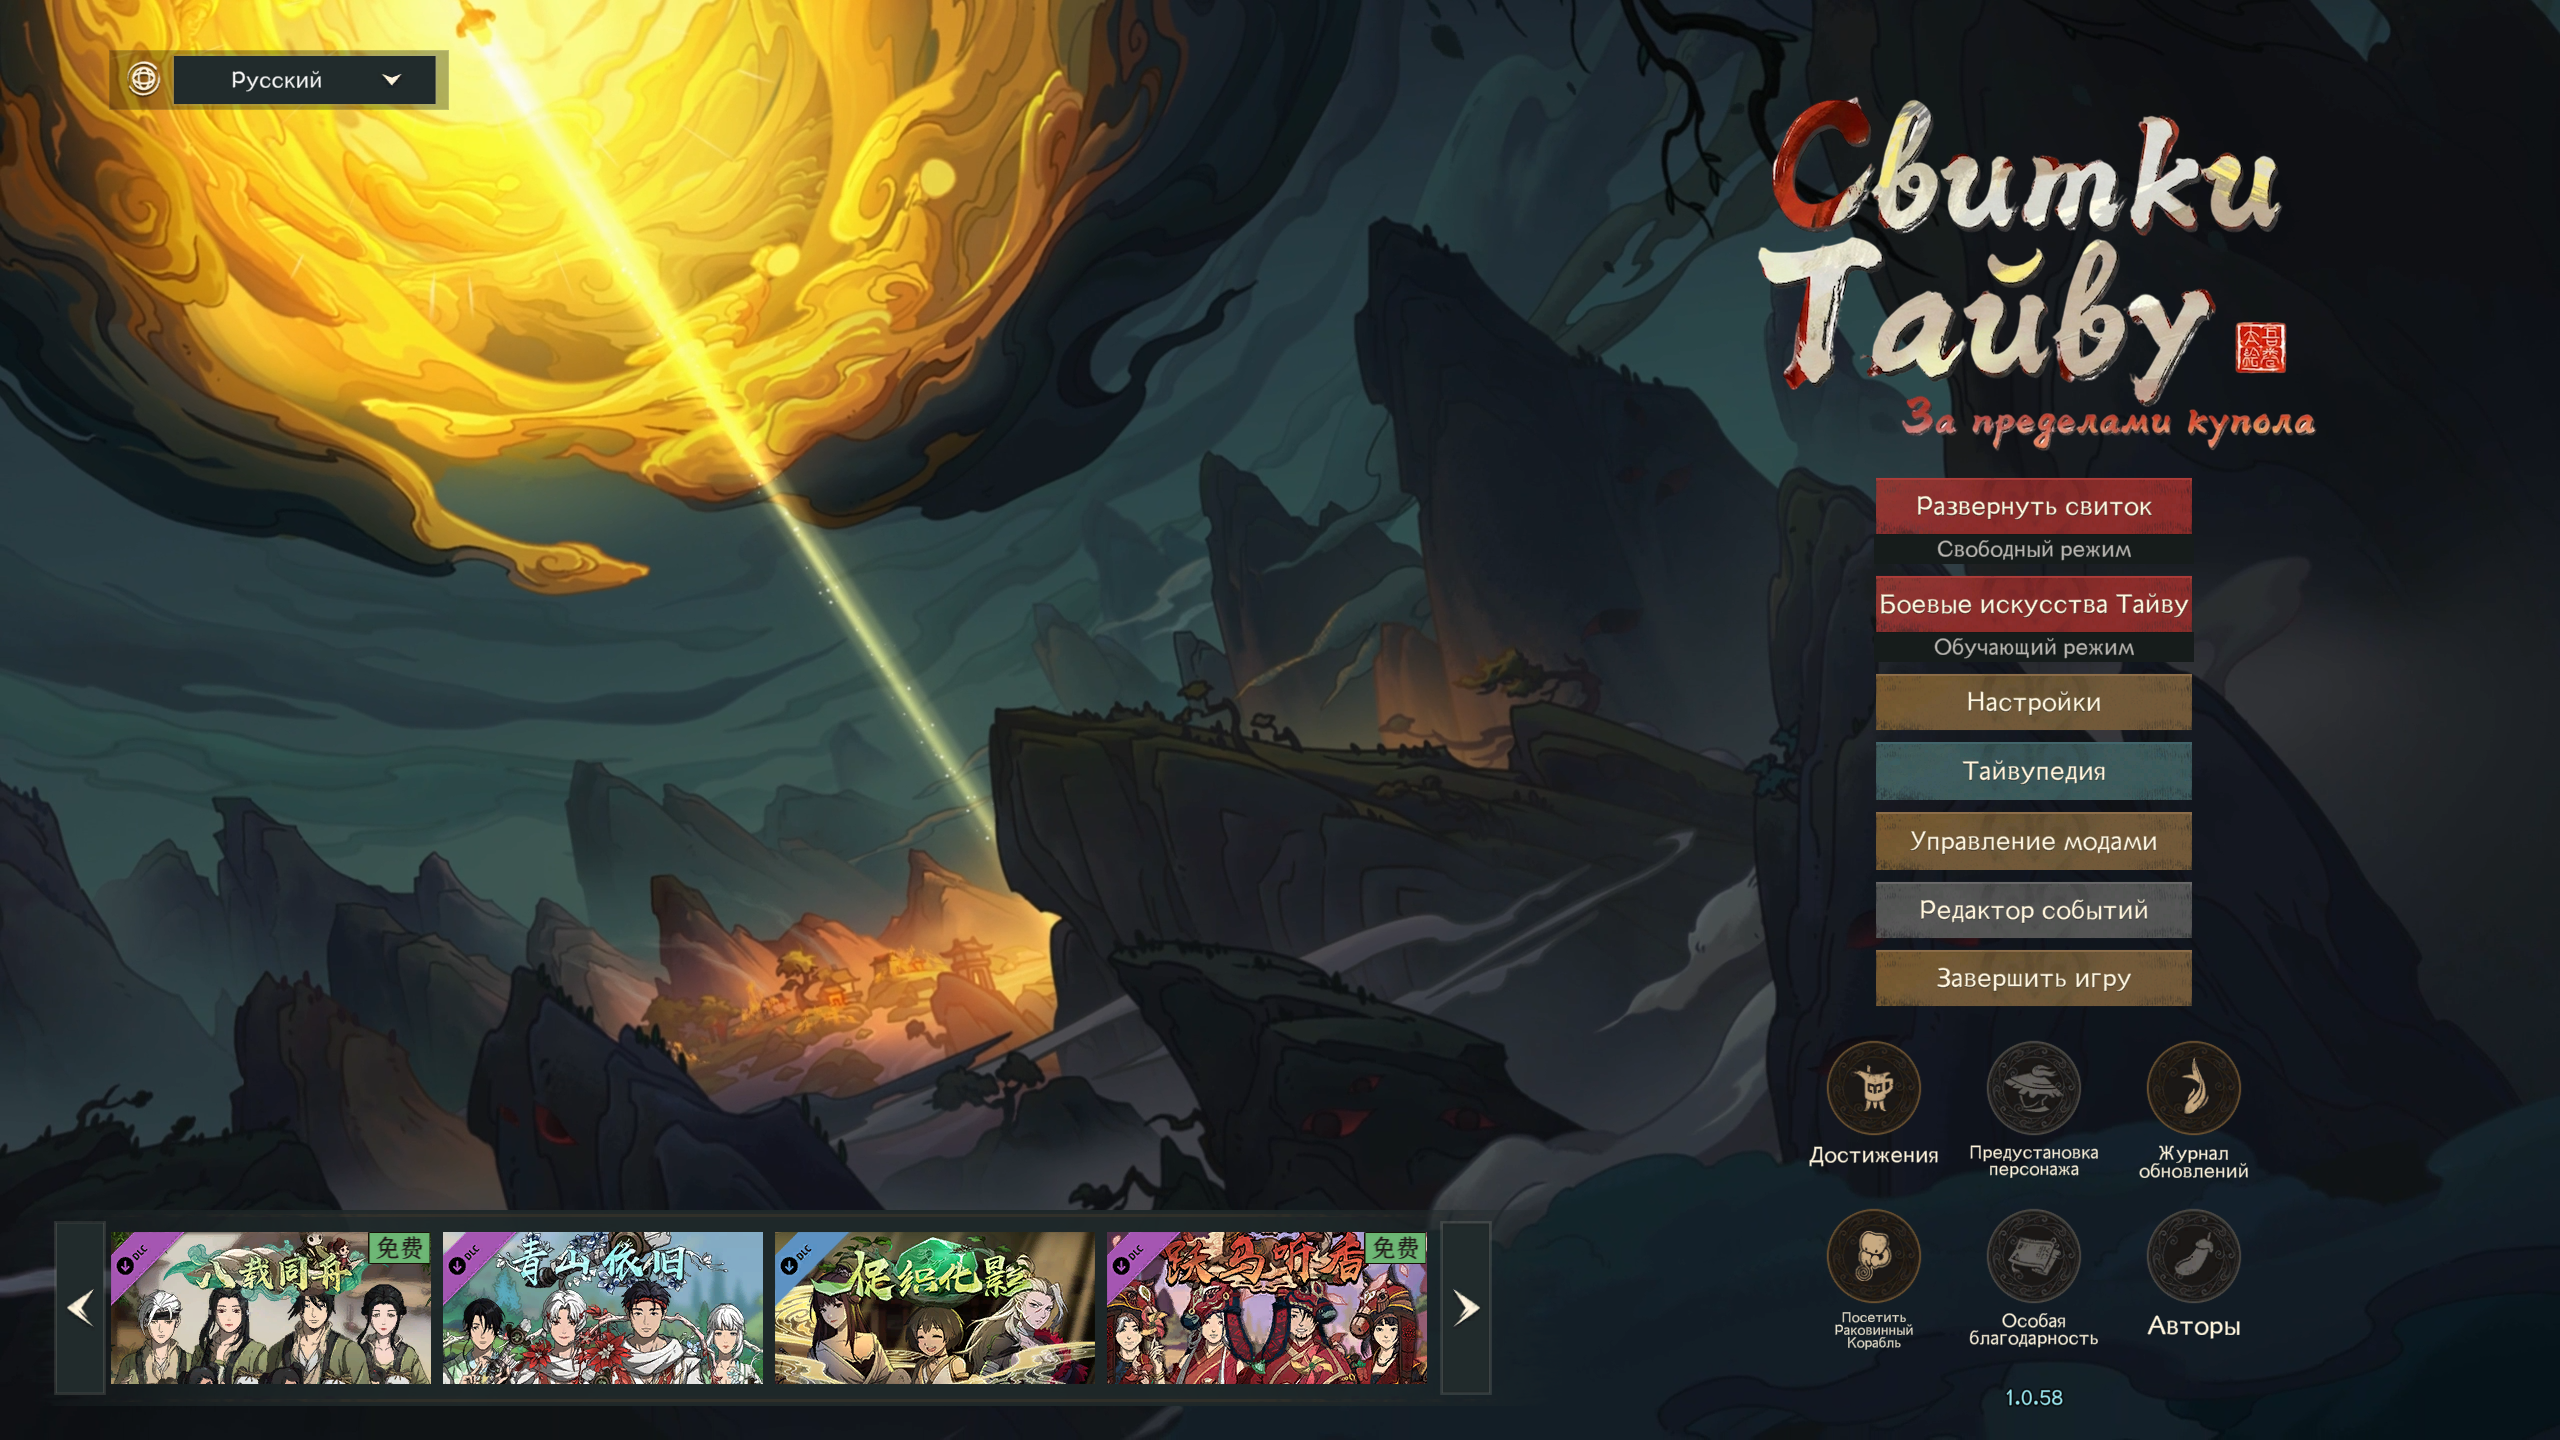
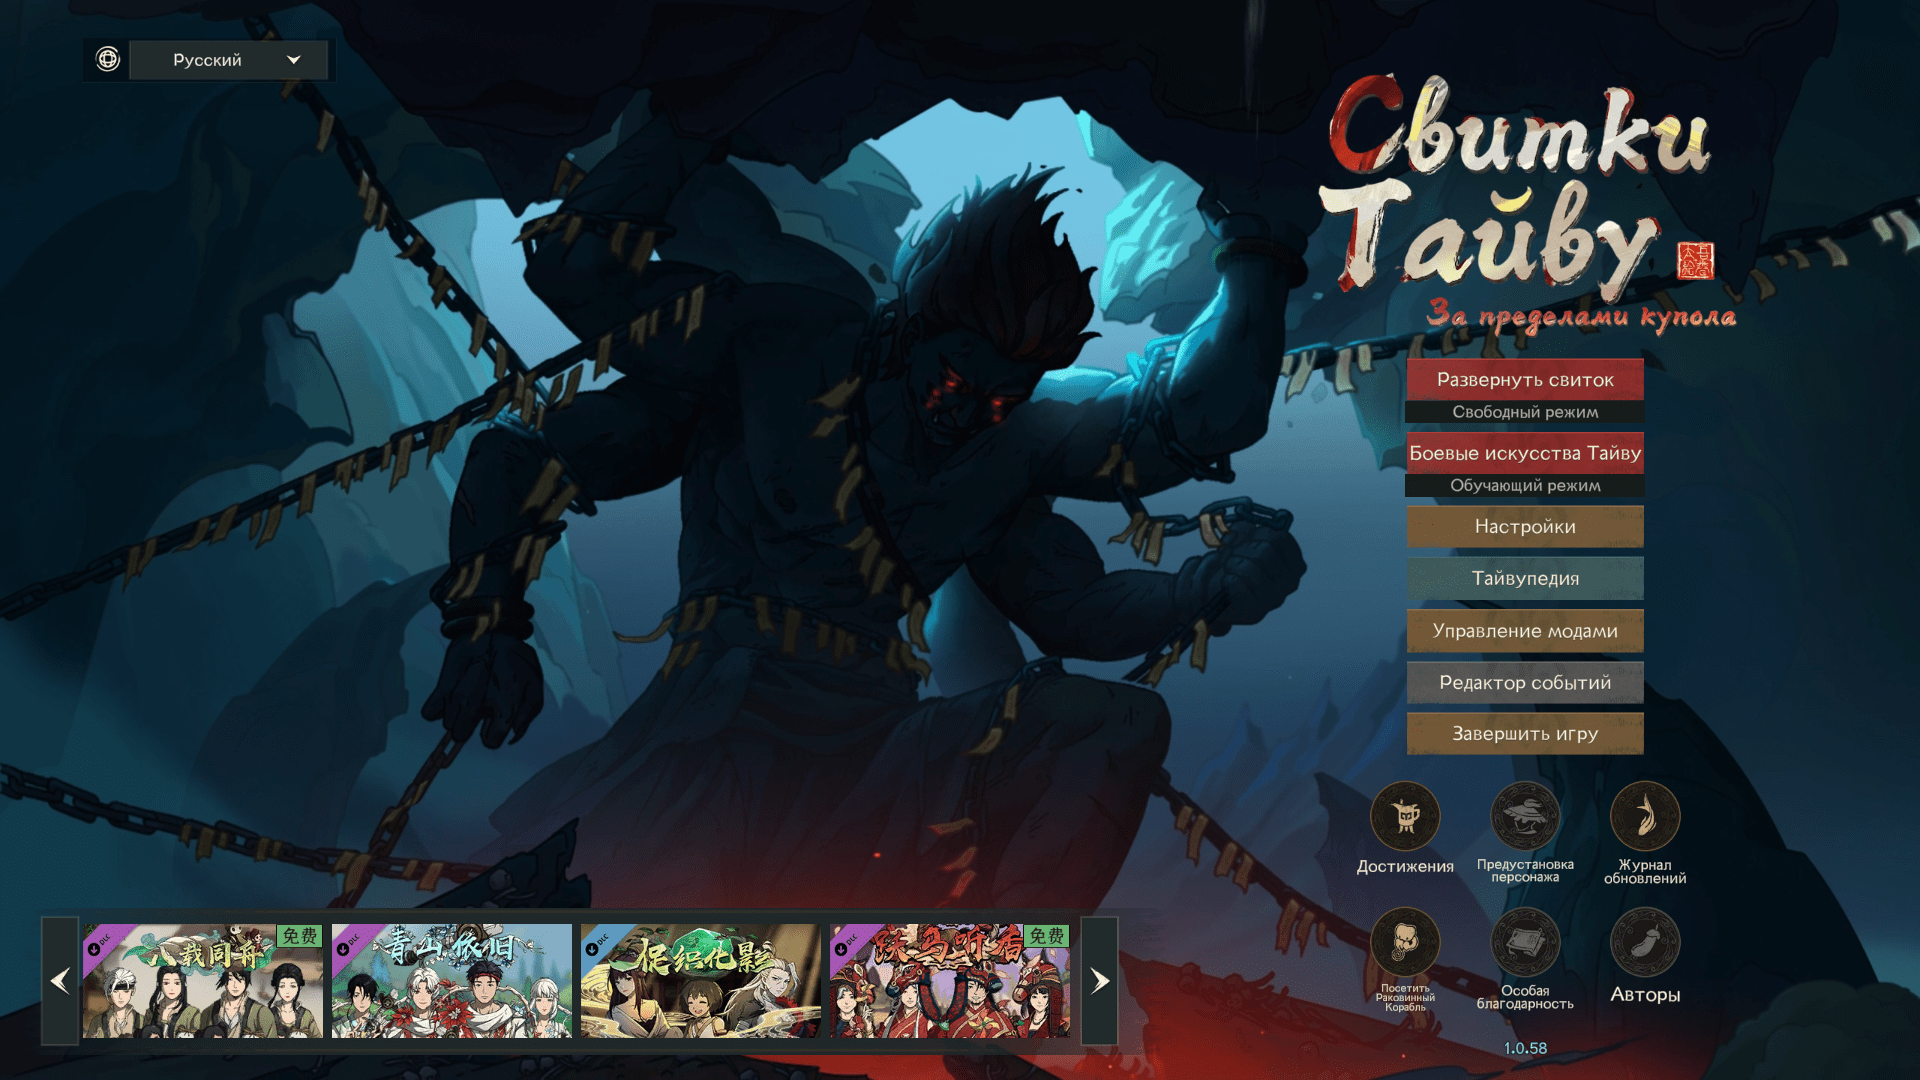
Refresh the mod's Workshop art
Swap the cover to logo.jpg and re-export the screenshots: four shrunk
captures ship, and the full-size ones stay beside them as screen*_orig.png,
excluded from the deploy. Config.Lua's Cover/WorkshopCover and
DetailImageList follow the new names.

Also carried in from the running game: useImages now defaults to true, and
the publish flow's UpdateLogList entry.

diff --git a/src/cli/apply.ts b/src/cli/apply.ts
@@ -21,7 +21,7 @@ import { Progress } from "./progress.js";
 /**
  * A localized sprite carries a `_ru` language token, which may sit at the end of the name
  * (`..._ru.png`) or in front of an atlas index (`..._ru_3.png`, `..._0_ru.png`). Everything else in
- * {@link imageSrcDir} is mod art rather than a sprite — `logo.png` ships in the mod root — and the
+ * {@link imageSrcDir} is mod art rather than a sprite — `logo.jpg` ships in the mod root — and the
  * frontend could never load it from here, since it resolves `Language_RU/Images/<name>_ru.png`.
  */
 const ruSpriteName = /_ru(_|\.)/i;
